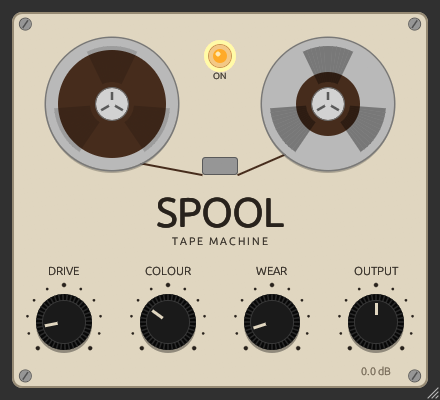
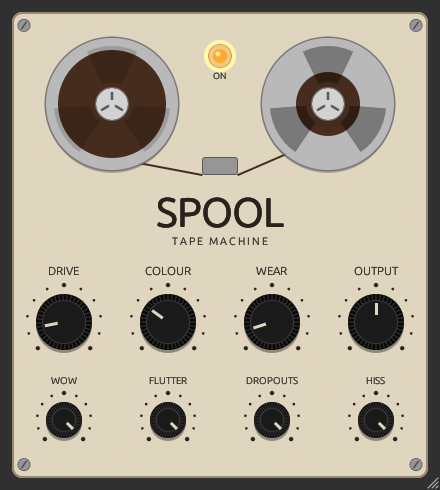
Add Wow, Flutter, Dropouts and Hiss trims for Wear
Each trim scales its part of Wear and defaults to 100%, so 0.1.0 projects sound the same.
The editor gets a second row of smaller knobs and a taller window (new persist key).

diff --git a/src/lib.rs b/src/lib.rs
@@ -5,7 +5,8 @@
 //!    base delay is reported as latency, and the dry signal is read at that base so bypass lines up.
 //! 2. Record head: pre-emphasis, tape saturation at `OVERSAMPLING`x, then de-emphasis, so the
 //!    highs saturate first like real tape. Drive is compensated so quiet signals keep their level.
-//! 3. Playback: head bump and high-frequency loss (Colour, Wear), hiss and dropouts (Wear).
+//! 3. Playback: head bump and high-frequency loss (Colour, Wear), hiss and dropouts (Wear, each
+//!    part of Wear also has its own trim).
 //! 4. Output.
 
 use nih_plug::prelude::*;
@@ -181,6 +182,31 @@ impl DelayLine {
     }
 }
 
+/// Wear amount plus the trims for each of its parts, all 0..1. Trims scale their part of Wear,
+/// so full trims reproduce the single Wear knob of 0.1.0.
+#[derive(Clone, Copy)]
+struct Wear {
+    amount: f32,
+    wow: f32,
+    flutter: f32,
+    dropouts: f32,
+    hiss: f32,
+}
+
+impl Wear {
+    /// Wear with every part fully on
+    #[cfg(test)]
+    fn all(amount: f32) -> Self {
+        Self {
+            amount,
+            wow: 1.0,
+            flutter: 1.0,
+            dropouts: 1.0,
+            hiss: 1.0,
+        }
+    }
+}
+
 /// Tape motion shared by both channels: one tape, one capstan.
 struct Transport {
     wow_phase: f32,
@@ -216,7 +242,8 @@ impl Transport {
     }
 
     /// Returns the playback delay in samples and the dropout gain.
-    fn next(&mut self, wear: f32, base: f32, fs: f32) -> (f32, f32) {
+    fn next(&mut self, w: &Wear, base: f32, fs: f32) -> (f32, f32) {
+        let wear = w.amount;
         let worn = wear * wear;
         self.wow_phase = (self.wow_phase + TAU * WOW_RATE / fs) % TAU;
         self.flutter_phase = (self.flutter_phase + TAU * FLUTTER_RATE / fs) % TAU;
@@ -227,14 +254,14 @@ impl Transport {
         let drift = (self.drift.lp(noise, g) * (1.5 / g).sqrt()).clamp(-1.0, 1.0);
         let wow = 0.7 * self.wow_phase.sin() + 0.3 * drift;
         let delay = base
-            + worn * WOW_DEPTH * fs * wow
-            + wear * FLUTTER_DEPTH * fs * self.flutter_phase.sin();
+            + w.wow * worn * WOW_DEPTH * fs * wow
+            + w.flutter * wear * FLUTTER_DEPTH * fs * self.flutter_phase.sin();
 
         if self.dropout_left > 0 {
             self.dropout_left -= 1;
         } else {
             self.dropout_target = 1.0;
-            if (self.noise() + 1.0) * 0.5 < worn * wear * DROPOUT_RATE / fs {
+            if (self.noise() + 1.0) * 0.5 < w.dropouts * worn * wear * DROPOUT_RATE / fs {
                 self.dropout_left = ((0.03 + 0.12 * (self.noise() + 1.0) * 0.5) * fs) as usize;
                 self.dropout_target = 1.0 - wear * (0.45 + 0.25 * self.noise());
             }
@@ -258,8 +285,8 @@ struct Coeffs {
 }
 
 impl Coeffs {
-    fn new(drive_db: f32, colour: f32, wear: f32, fs: f32) -> Self {
-        let hf_fc = HF_OPEN * (HF_DARK / HF_OPEN).powf(colour) * HF_WORN.powf(wear);
+    fn new(drive_db: f32, colour: f32, wear: &Wear, fs: f32) -> Self {
+        let hf_fc = HF_OPEN * (HF_DARK / HF_OPEN).powf(colour) * HF_WORN.powf(wear.amount);
         Self {
             drive: util::db_to_gain(drive_db),
             g_emph: prewarp(EMPHASIS_FC, fs),
@@ -268,7 +295,7 @@ impl Coeffs {
             g_dc: prewarp(DC_FC, fs),
             bump: Bq::peak(BUMP_FC, fs, BUMP_Q, BUMP_DB * colour),
             hf: Bq::lowpass(hf_fc, fs, 0.707),
-            hiss: HISS * wear * wear,
+            hiss: HISS * wear.hiss * wear.amount * wear.amount,
         }
     }
 }
@@ -332,7 +359,8 @@ struct Spool {
 
 #[derive(Params)]
 struct SpoolParams {
-    #[persist = "editor-size"]
+    // Renamed from "editor-size" so projects saved with the 0.1.0 layout open at the taller size
+    #[persist = "editor-size-2"]
     editor_state: Arc<EguiState>,
 
     #[id = "drive"]
@@ -341,6 +369,14 @@ struct SpoolParams {
     colour: FloatParam,
     #[id = "wear"]
     wear: FloatParam,
+    #[id = "wow"]
+    wow: FloatParam,
+    #[id = "flutter"]
+    flutter: FloatParam,
+    #[id = "dropouts"]
+    dropouts: FloatParam,
+    #[id = "hiss"]
+    hiss: FloatParam,
     #[id = "output"]
     output: FloatParam,
     #[id = "bypass"]
@@ -372,6 +408,10 @@ impl Default for SpoolParams {
             .with_unit(" dB"),
             colour: knob("Colour", 0.3),
             wear: knob("Wear", 0.1),
+            wow: knob("Wow", 1.0),
+            flutter: knob("Flutter", 1.0),
+            dropouts: knob("Dropouts", 1.0),
+            hiss: knob("Hiss", 1.0),
             output: FloatParam::new(
                 "Output",
                 util::db_to_gain(0.0),
@@ -478,15 +518,21 @@ impl Plugin for Spool {
         let fade_step = 1.0 / (BYPASS_FADE * fs);
 
         for mut frame in buffer.iter_samples() {
-            let wear = self.params.wear.smoothed.next();
+            let wear = Wear {
+                amount: self.params.wear.smoothed.next(),
+                wow: self.params.wow.smoothed.next(),
+                flutter: self.params.flutter.smoothed.next(),
+                dropouts: self.params.dropouts.smoothed.next(),
+                hiss: self.params.hiss.smoothed.next(),
+            };
             let coeffs = Coeffs::new(
                 self.params.drive.smoothed.next(),
                 self.params.colour.smoothed.next(),
-                wear,
+                &wear,
                 fs,
             );
             let output = self.params.output.smoothed.next();
-            let (delay, dropout) = self.transport.next(wear, base, fs);
+            let (delay, dropout) = self.transport.next(&wear, base, fs);
             let target = if self.params.bypass.value() { 0.0 } else { 1.0 };
             self.wet += (target - self.wet).clamp(-fade_step, fade_step);
 
@@ -538,14 +584,18 @@ mod tests {
     /// Runs `secs` of a sine through one channel the way `process()` does and returns the output,
     /// skipping the first 10% while filters settle.
     fn render(drive: f32, colour: f32, wear: f32, fs: f32, freq: f32, amp: f32) -> Vec<f32> {
+        render_worn(drive, colour, Wear::all(wear), fs, freq, amp)
+    }
+
+    fn render_worn(drive: f32, colour: f32, wear: Wear, fs: f32, freq: f32, amp: f32) -> Vec<f32> {
         let base = (BASE_DELAY * fs).round() as usize;
-        let c = Coeffs::new(drive, colour, wear, fs);
+        let c = Coeffs::new(drive, colour, &wear, fs);
         let mut ch = Channel::new(fs, base);
         let mut tr = Transport::default();
         let n = fs as usize;
         (0..n)
             .map(|i| {
-                let (delay, dropout) = tr.next(wear, base as f32, fs);
+                let (delay, dropout) = tr.next(&wear, base as f32, fs);
                 ch.delay.push(amp * (2.0 * PI * freq * i as f32 / fs).sin());
                 let tape = ch.delay.read(delay);
                 ch.process(tape, &c, tr.noise()) * dropout
@@ -581,6 +631,16 @@ mod tests {
     fn silence_in_silence_out_without_wear() {
         let out = render(24.0, 1.0, 0.0, 48000.0, 0.0, 0.0);
         assert!(peak(&out) < 1e-6);
+    }
+
+    #[test]
+    fn hiss_trim_silences_worn_tape() {
+        let quiet = Wear {
+            hiss: 0.0,
+            ..Wear::all(1.0)
+        };
+        assert!(peak(&render_worn(24.0, 1.0, quiet, 48000.0, 0.0, 0.0)) < 1e-6);
+        assert!(peak(&render(24.0, 1.0, 1.0, 48000.0, 0.0, 0.0)) > 1e-4);
     }
 
     #[test]
@@ -622,15 +682,21 @@ mod tests {
         let fs = 48000.0;
         let base = (BASE_DELAY * fs).round();
         // Returns the (min, max) playback delay over 10 s of tape
-        let swing = |wear| {
+        let swing = |wear: Wear| {
             let mut tr = Transport::default();
             (0..10 * fs as usize).fold((f32::MAX, f32::MIN), |(lo, hi), _| {
-                let d = tr.next(wear, base, fs).0;
+                let d = tr.next(&wear, base, fs).0;
                 (lo.min(d), hi.max(d))
             })
         };
-        assert_eq!(swing(0.0), (base, base));
-        let (lo, hi) = swing(1.0);
+        assert_eq!(swing(Wear::all(0.0)), (base, base));
+        let steady = Wear {
+            wow: 0.0,
+            flutter: 0.0,
+            ..Wear::all(1.0)
+        };
+        assert_eq!(swing(steady), (base, base));
+        let (lo, hi) = swing(Wear::all(1.0));
         // At least +-2 ms of wow, and never closer than 1 sample or past the buffer's 2 * base
         assert!(hi - lo > 0.004 * fs, "swing {lo}..{hi}");
         assert!(lo >= 1.0 && hi + 2.0 < 2.0 * base, "swing {lo}..{hi}");

diff --git a/src/editor.rs b/src/editor.rs
@@ -11,10 +11,9 @@ use std::f32::consts::{PI, TAU};
 use std::sync::Arc;
 
 pub const WIDTH: u32 = 440;
-pub const HEIGHT: u32 = 400;
+pub const HEIGHT: u32 = 490;
 const DESIGN: Rect = Rect::from_min_max(Pos2::ZERO, Pos2::new(WIDTH as f32, HEIGHT as f32));
 
-const KNOB_RADIUS: f32 = 28.0;
 /// Knobs turn +-135 degrees from straight up
 const SWEEP: f32 = 0.75 * PI;
 const INK: Color32 = Color32::from_rgb(40, 34, 28);
@@ -122,12 +121,24 @@ fn deck(ui: &Ui, setter: &ParamSetter, params: &SpoolParams) {
         INK,
     );
 
-    for (i, param) in [&params.drive, &params.colour, &params.wear, &params.output]
-        .into_iter()
-        .enumerate()
-    {
-        let x = body.left() + body.width() * (i as f32 + 0.5) / 4.0;
-        knob(ui, setter, param, Pos2::new(x, body.bottom() - 66.0));
+    // Main controls, then the trims for each part of Wear underneath
+    let rows = [
+        (
+            [&params.drive, &params.colour, &params.wear, &params.output],
+            310.0,
+            28.0,
+        ),
+        (
+            [&params.wow, &params.flutter, &params.dropouts, &params.hiss],
+            408.0,
+            18.0,
+        ),
+    ];
+    for (row, y, radius) in rows {
+        for (i, param) in row.into_iter().enumerate() {
+            let x = body.left() + body.width() * (i as f32 + 0.5) / 4.0;
+            knob(ui, setter, param, Pos2::new(x, body.top() + y), radius);
+        }
     }
 }
 
@@ -178,8 +189,8 @@ fn dir(angle: f32) -> Vec2 {
     Vec2::new(angle.sin(), -angle.cos())
 }
 
-fn knob(ui: &Ui, setter: &ParamSetter, param: &FloatParam, center: Pos2) {
-    let rect = Rect::from_center_size(center, Vec2::splat(2.0 * KNOB_RADIUS + 12.0));
+fn knob(ui: &Ui, setter: &ParamSetter, param: &FloatParam, center: Pos2, radius: f32) {
+    let rect = Rect::from_center_size(center, Vec2::splat(2.0 * radius + 12.0));
     let response = ui.interact(rect, ui.id().with(param.name()), Sense::click_and_drag());
 
     // Accumulate drags in egui memory since the param value can lag behind the host round trip
@@ -244,50 +255,50 @@ fn knob(ui: &Ui, setter: &ParamSetter, param: &FloatParam, center: Pos2) {
     for i in 0..=10 {
         let a = -SWEEP + 2.0 * SWEEP * i as f32 / 10.0;
         let r = if i % 5 == 0 { 2.0 } else { 1.2 };
-        p.circle_filled(center + dir(a) * (KNOB_RADIUS + 9.0), r, INK);
+        p.circle_filled(center + dir(a) * (radius + 9.0), r, INK);
     }
 
     // Knurled skirt that turns with the knob
     p.circle_filled(
         center + Vec2::new(0.0, 3.0),
-        KNOB_RADIUS,
+        radius,
         Color32::from_black_alpha(90),
     );
-    p.circle_filled(center, KNOB_RADIUS, Color32::from_gray(8));
+    p.circle_filled(center, radius, Color32::from_gray(8));
     for i in 0..40 {
         let a = angle + i as f32 * TAU / 40.0;
         p.line_segment(
             [
-                center + dir(a) * (KNOB_RADIUS - 6.0),
-                center + dir(a) * (KNOB_RADIUS - 0.5),
+                center + dir(a) * (radius - 6.0),
+                center + dir(a) * (radius - 0.5),
             ],
             Stroke::new(1.5_f32, Color32::from_gray(42)),
         );
     }
-    p.circle_filled(center, KNOB_RADIUS - 7.0, Color32::from_gray(26));
+    p.circle_filled(center, radius - 7.0, Color32::from_gray(26));
     p.circle_stroke(
         center,
-        KNOB_RADIUS - 7.0,
+        radius - 7.0,
         Stroke::new(1.0_f32, Color32::from_gray(58)),
     );
     p.line_segment(
         [
-            center + dir(angle) * 7.0,
-            center + dir(angle) * (KNOB_RADIUS - 9.0),
+            center + dir(angle) * (0.25 * radius),
+            center + dir(angle) * (0.68 * radius),
         ],
         Stroke::new(3.0_f32, FACEPLATE),
     );
 
     p.text(
-        center - Vec2::new(0.0, KNOB_RADIUS + 16.0),
+        center - Vec2::new(0.0, radius + 16.0),
         Align2::CENTER_BOTTOM,
         param.name().to_uppercase(),
-        FontId::proportional(12.0),
+        FontId::proportional(if radius < 24.0 { 10.0 } else { 12.0 }),
         INK,
     );
     if response.hovered() || response.dragged() {
         p.text(
-            center + Vec2::new(0.0, KNOB_RADIUS + 14.0),
+            center + Vec2::new(0.0, radius + 14.0),
             Align2::CENTER_TOP,
             param.normalized_value_to_string(value, true),
             FontId::proportional(11.0),

diff --git a/CLAUDE.md b/CLAUDE.md
@@ -28,11 +28,14 @@ cargo clippy --release --lib
 - `BASE_DELAY` is reported as latency and must stay larger than `WOW_DEPTH + FLUTTER_DEPTH`
   (`wear_wobbles_and_stays_in_the_buffer` checks it). Delay buffers are allocated in `initialize()`,
   because `reset()` can run on the audio thread.
-- `Coeffs::new(drive_db, colour, wear, fs)` maps knob values to coefficients; it's shared by `process()` and
+- `Wear` bundles the Wear amount with the Wow/Flutter/Dropouts/Hiss trims (0..1, default 1). Trims multiply their
+  part of Wear, so all-1 trims sound exactly like 0.1.0's single knob; `Wear::all(x)` is that case for tests.
+- `Coeffs::new(drive_db, colour, &wear, fs)` maps knob values to coefficients; it's shared by `process()` and
   the tests, so change the mapping there only.
 - Wear is mostly squared (wow depth, hiss) or cubed (dropout rate) so low settings stay subtle for mastering.
 - GUI lives in `src/editor.rs`: a hand-painted reel-to-reel faceplate. `knob()`, `screw()` and window scaling
   come from Rodent (see `../rodent/CLAUDE.md`). The pilot lamp is the bypass button. Reels are static.
+  `knob()` takes a radius: 28 for the main row, 18 for the Wear trims row.
 - README screenshot: same standalone recipe as `../wailer/CLAUDE.md` (match the `"Spool": ()` window).
 - The audio thread must not allocate (`assert_process_allocs` is enabled).
 - `CLAP_ID` and `VST3_CLASS_ID` must never change, or saved Bitwig projects lose the plugin.

diff --git a/README.md b/README.md
@@ -14,6 +14,7 @@ your master, or push it for all-out lofi wonkiness.
 | Colour  | 0–100% | Head bump (up to +4 dB at 90 Hz) and top-end roll-off (20 kHz → 5 kHz) |
 | Wear    | 0–100% | Wow and flutter, hiss, dropouts, and a further loss of highs. Low settings are near-inaudible; the top end gets wonky |
 | Output  | −12 to +12 dB | Make-up gain |
+| Wow, Flutter, Dropouts, Hiss | 0–100% | Trims for each part of Wear (default 100%). Wear sets the overall amount; turn a trim down to leave that part out |
 | Lamp    | Bypass (lit when the tape is running) |
 
 Knobs: drag or scroll to turn, hold Shift for fine control, double-click to reset.

diff --git a/CHANGELOG.md b/CHANGELOG.md
@@ -6,6 +6,14 @@ All notable changes to Spool are documented here. The format follows
 
 ## [Unreleased]
 
+### Added
+- Wow, Flutter, Dropouts and Hiss trims under the main knobs. Each scales its part of Wear, so
+  you can have a wobbly tape without hiss, or hiss without the wobble. They default to 100%, so
+  existing projects sound the same.
+
+### Changed
+- The window is taller to fit the trims. Projects saved with 0.1.0 open at the new default size.
+
 ## [0.1.0] - 2026-10-26
 
 ### Added
